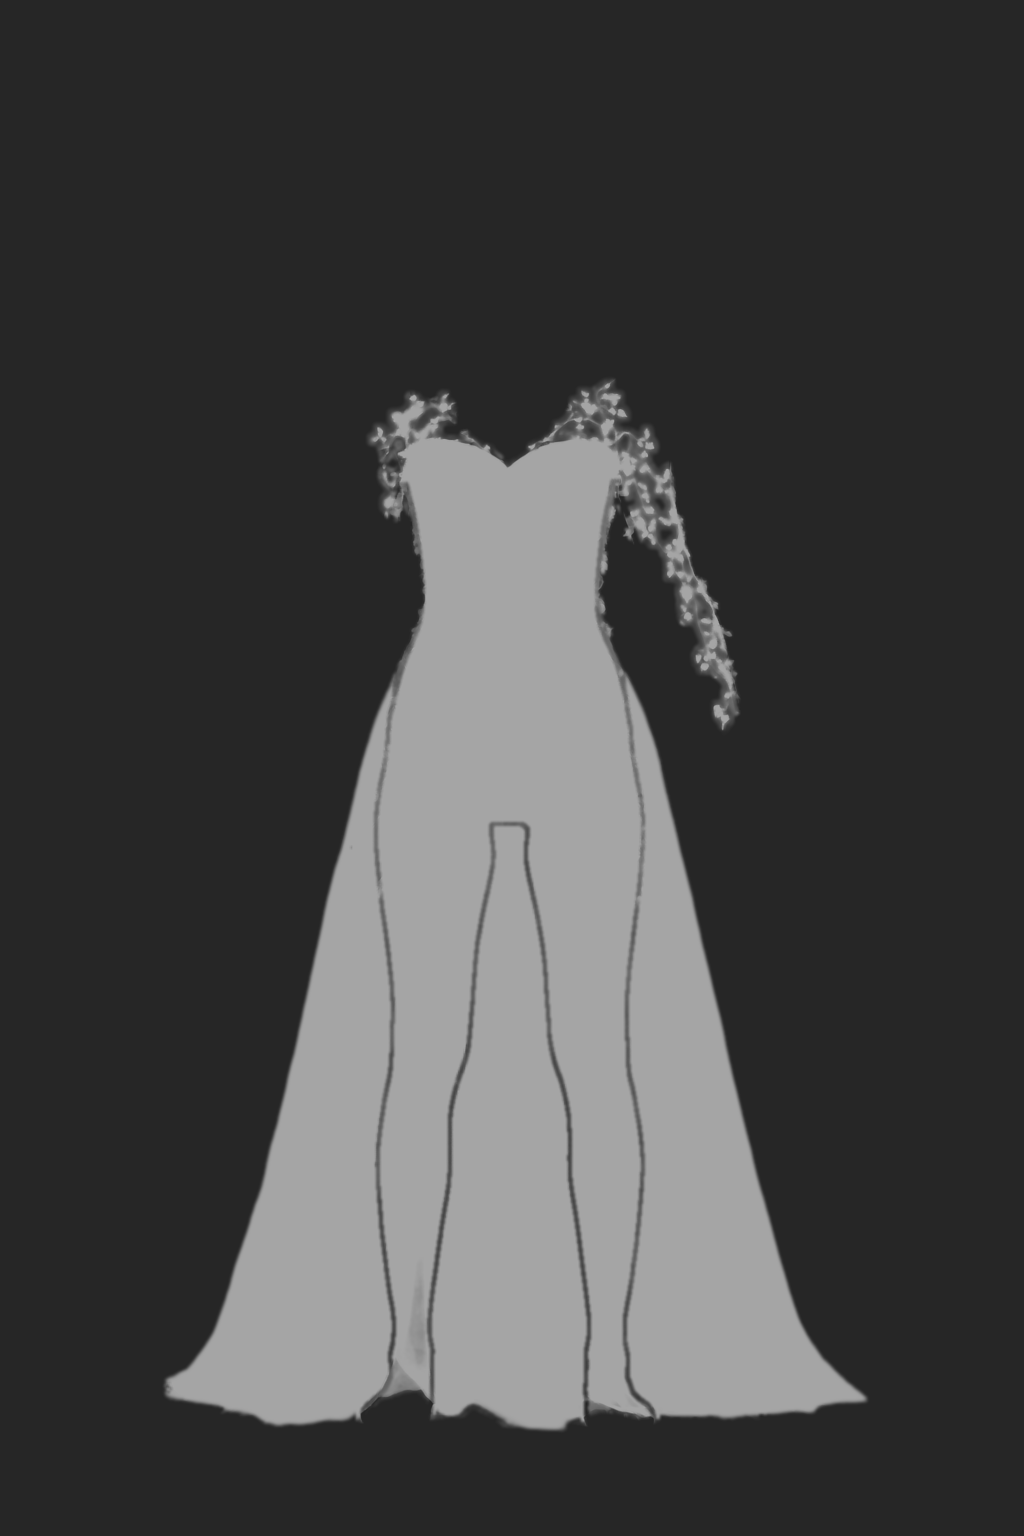
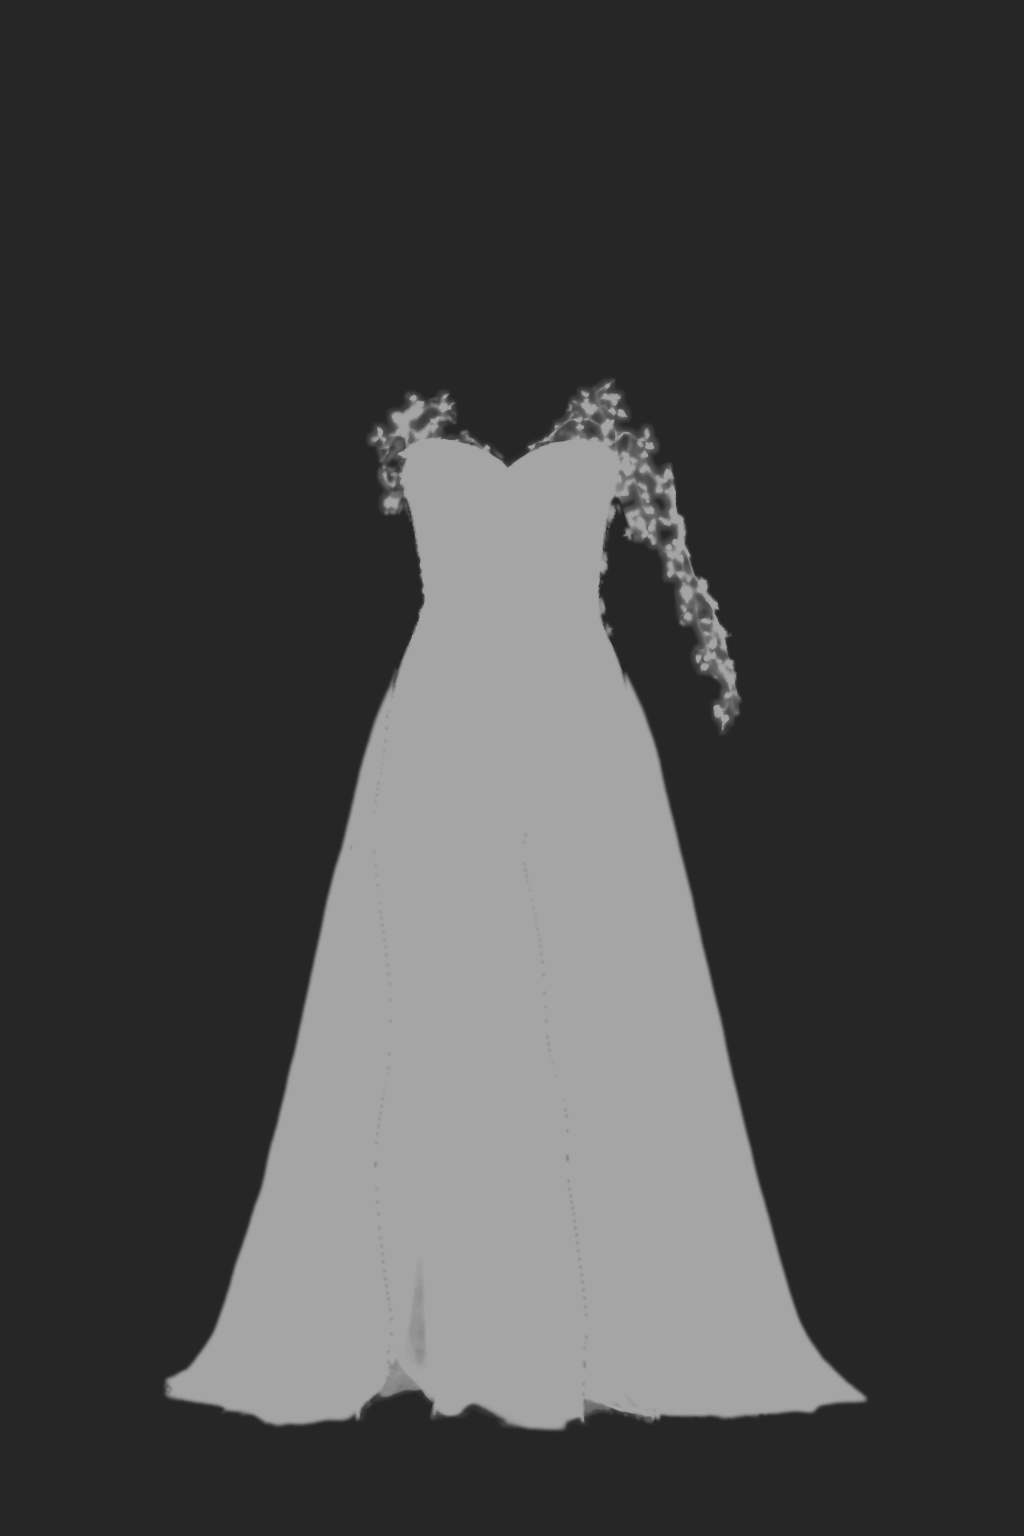
Wings extend under body edge; sheer fabric continues across body outline; sequential extraction
Claude-Session: https://claude.ai/code/session_01H5aED7c6KotjQNbgbnnovL

diff --git a/tryon/pipeline/extract.py b/tryon/pipeline/extract.py
@@ -148,6 +148,8 @@ def extract(gid):
     alpha = np.where(keyed_soft, np.minimum(a_key, a_bg), a_bg)
 
     rgb = img.copy()
+    rim = cv2.dilate(keyed.astype(np.uint8), np.ones((11, 11), np.uint8)).astype(bool) & ~keyed
+    alpha = np.where(rim & (r > 0.12) & (s > 0.015), 0.0, alpha)
     if sheer:
         # colour under the fabric = the chroma input we sent (already pixel-aligned, carries the body's own
         # shading), times a smooth gain field for the model's re-lighting. Using the input instead of the
@@ -169,8 +171,11 @@ def extract(gid):
         # around the body outline the generated body may sit 1-3px off ours: take the most transparent
         # explanation (under = key colour or under = backdrop) and treat key-tinted pixels as body
         outline = cv2.morphologyEx(keyed.astype(np.uint8), cv2.MORPH_GRADIENT, np.ones((9, 9), np.uint8)).astype(bool)
-        am = np.where(outline, np.minimum(am, solve_alpha(img, bgf, key=key)), am)
-        am *= np.where(outline & (r > 0.25) & (s > 0.02), 0.0, 1.0)
+        # the body outline is unreliable (generated body sits 1-3px off ours): continue the fabric across it
+        # from the nearest reliable pixel instead of leaving a see-through seam along every limb
+        from scipy.ndimage import distance_transform_edt
+        _, (oy, ox) = distance_transform_edt(outline, return_indices=True)
+        am = np.where(outline, am[oy, ox], am)
         am = np.clip((am - 0.06) / 0.94, 0, 1)
         # where the generated image shows plain backdrop (e.g. the model drew the body slightly slimmer
         # than our input) there is no fabric, whatever the input had underneath
@@ -188,6 +193,7 @@ def extract(gid):
         alpha = np.where(keyed_soft, am, np.maximum(am, alpha * (am > 0.02))) * soft(support, 2.0)
         alpha *= np.where(~keyed_soft & (s > 0.05), np.clip((0.3 - r) / 0.15, 0, 1), 1.0)
         F = np.clip(B + (img - B) / np.maximum(alpha, 0.05)[..., None], 0, 1)
+        F = np.where(outline[..., None], F[oy, ox], F)
         # dark sheer fabric (black tulle / lace) un-mixes with a residual colour cast: neutralise it
         lumF = (F @ np.array([0.299, 0.587, 0.114], np.float32))[..., None]
         chromaF = (F.max(-1) - F.min(-1))[..., None]
@@ -254,6 +260,18 @@ def extract(gid):
     alpha = np.where(solid, 1.0, np.where(empty, 0.0, refined))
     alpha = alpha * soft(region & ~prot)
     alpha[alpha < 0.01] = 0
+
+    # ---- back items (wings): drawn behind the body, so they may run under the body edge freely.
+    # Extend them across the rim next to the body so no backdrop/rim-light gap shows between body and wings.
+    if SLOTS[slot]["z"] < 0:
+        from scipy.ndimage import distance_transform_edt
+        m_base = np.asarray(Image.open(ASSETS / "person_mask.png")).astype(np.float32) / 255
+        under = cv2.dilate((m_base > 0.02).astype(np.uint8), np.ones((15, 15), np.uint8)).astype(bool) & ~prot
+        solid_w = alpha > 0.9
+        dist, (iy, ix) = distance_transform_edt(~solid_w, return_indices=True)
+        fillw = under & (dist <= 14) & (alpha < 0.9)
+        rgb = np.where(fillw[..., None], rgb[iy, ix], rgb)
+        alpha = np.where(fillw, 1.0, alpha)
 
     # ---- hard contract: inside the garment's outline the base body is NEVER visible ----
     # (base visibility = m * (1 - a); it is zero only if a == 1 wherever the body matte m > 0).
@@ -324,7 +342,7 @@ if __name__ == "__main__":
     ids = sys.argv[1:] or list(CAT)
     if len(ids) == 1:
         extract(ids[0])
-    else:  # one process per part keeps peak memory low (ONNX matting on CPU); 2 in parallel
+    else:  # one process per part keeps peak memory low (ONNX matting on CPU); sequential (parallel runs ran out of memory and lost parts)
         from concurrent.futures import ThreadPoolExecutor
-        with ThreadPoolExecutor(2) as ex:
+        with ThreadPoolExecutor(1) as ex:
             list(ex.map(lambda g: subprocess.run([sys.executable, __file__, g], check=False), ids))
